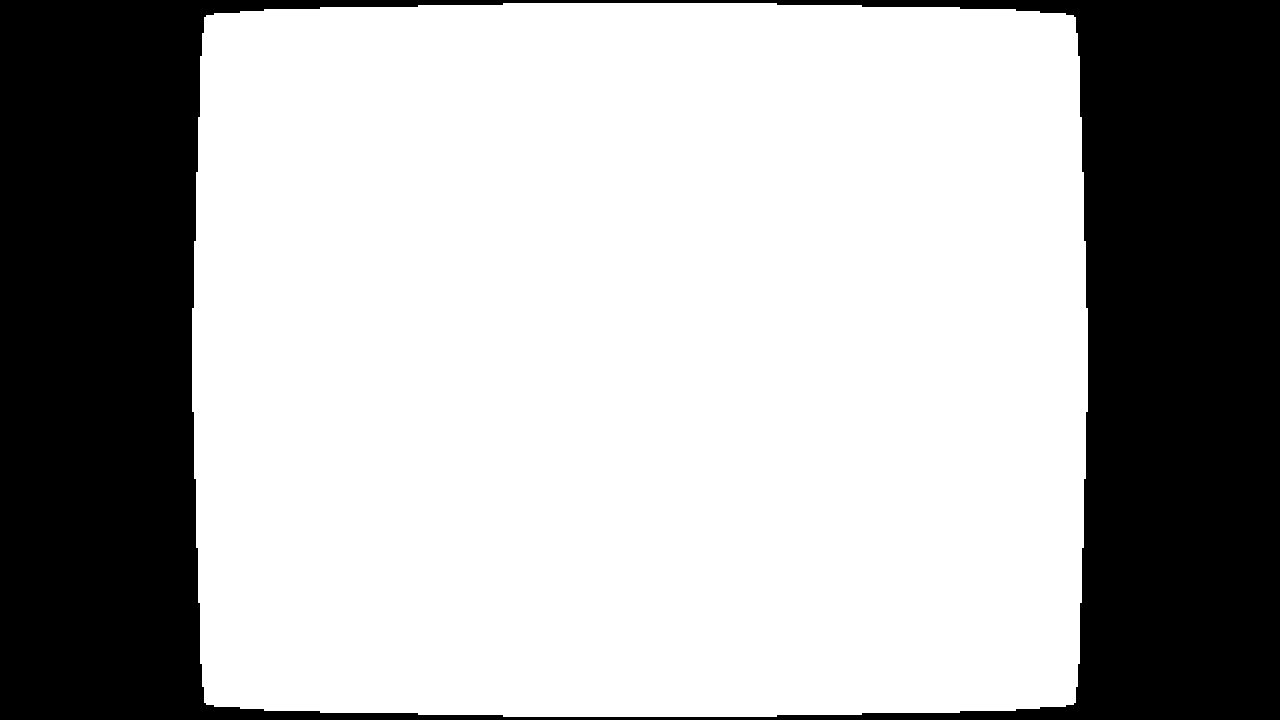
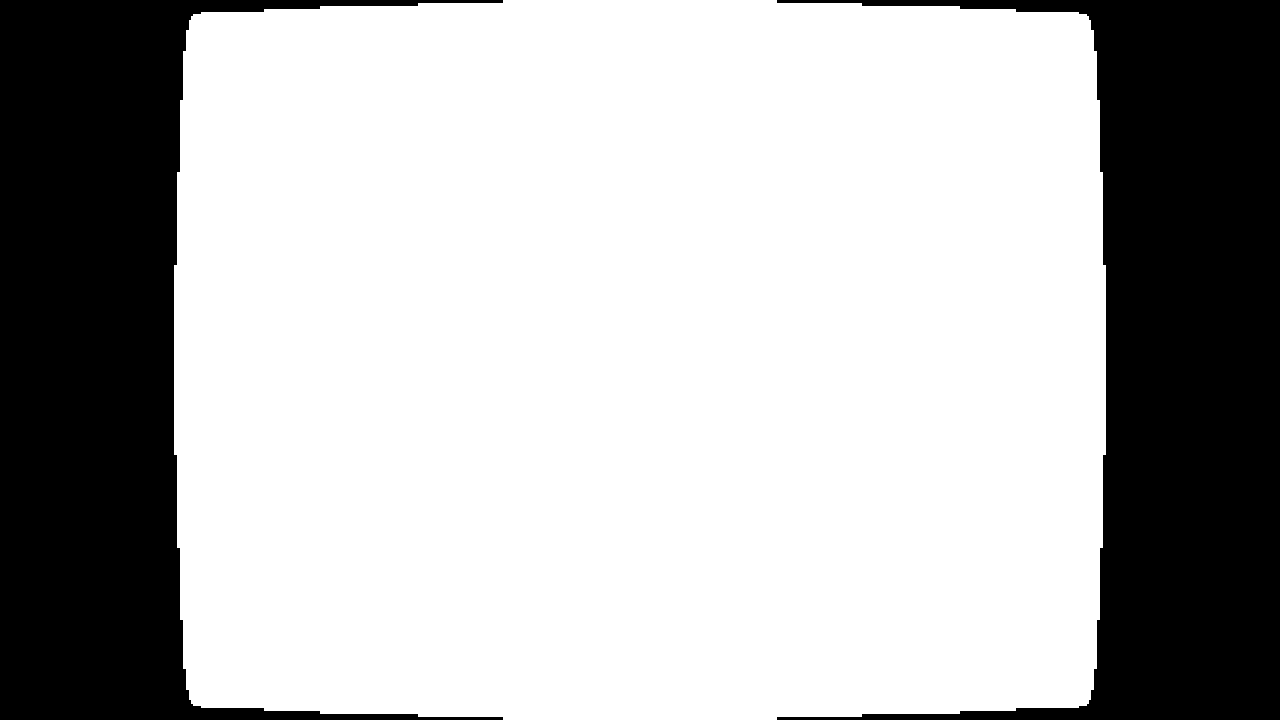
Day 5: Tambah cursor + assets sprite

diff --git a/static/views/trash.html b/static/views/trash.html
@@ -8,14 +8,17 @@
     <title>Document</title>
 </head>
 <body>
-    <div id="container1" class="container1 position-relative">
+    <div id="container1" class="position-relative">
+        <img id="frameimg" src="/static/public/Frame.png" alt="">
+        <img id="garisimg" src="/static/public/Garis.png" alt="">
         <div id="container2">
-            <div id="cursor"></div>
+            <div id="cursor"><img src="/static/public/Cursor.png" alt=""></div>
             <div id="grid-container">
-                <div id="1" class="grid-item"><button id="1" class="follow-element">1</button></div>
-                <div id="2" class="grid-item"><button id="2" class="follow-element">2</button></div>
-                <div id="3" class="grid-item"><button id="3" class="follow-element">3</button></div>
-                <div id="4" class="grid-item"><button id="4" class="follow-element">4</button></div>
+                <img id="innerimg" src="/static/public/Inner.png" alt="">
+                <div id="1" class="grid-item"><div id="btn1" class="follow-element"><img class="mail" src="/static/public/Mail.png" alt=""></div></div>
+                <div id="2" class="grid-item"><div id="btn2" class="follow-element"><img class="mail" src="/static/public/Mail.png" alt=""></div></div>
+                <div id="3" class="grid-item"><div id="btn3" class="follow-element"><img class="mail" src="/static/public/Mail.png" alt=""></div></div>
+                <div id="4" class="grid-item"><div id="btn4" class="follow-element"><img class="mail" src="/static/public/Mail.png" alt=""></div></div>
                 <div id="5" class="grid-item"></div>
                 <div id="6" class="grid-item"></div>
                 <div id="7" class="grid-item"></div>
@@ -86,6 +89,7 @@
                 <div id="72" class="grid-item"></div>
             </div>
             <div id="taskbar">
+                asdas
             </div>
         </div>
     <script>
@@ -151,8 +155,6 @@ followItems.forEach(function(item) {
 
         item.style.pointerEvents = "none"
         item.style.position = "absolute"
-        item.style.zIndex = "1"
-        document.body.style.cursor = "none"
 
         gridContainer.appendChild(item)
     })
@@ -170,13 +172,13 @@ gridTiles.forEach(function(tile) {
     tile.addEventListener("mouseup", function(event) {
         followItems.forEach(function(item) {
             if (item.dataset.active === "true") {
-                if (tile.id == 12 || tile.id == 72) {
-                    item.remove()
-                }
                 if (tile.childElementCount != 0) {
                     document.getElementById(childParent).appendChild(item);
                 } else {
                     tile.appendChild(item)
+                }
+                if (tile.id == 12 || tile.id == 72) {
+                    item.remove();
                 }
             }
 
@@ -185,7 +187,6 @@ gridTiles.forEach(function(tile) {
             item.style.position = "static"
             item.style.height = "100%px"
             item.style.width = "100%px"
-            document.body.style.cursor = "auto"
         });
     });
 });

diff --git a/static/style/styletest.css b/static/style/styletest.css
@@ -1,18 +1,36 @@
 body {
     margin: 0;
     padding: 0;
+    -webkit-touch-callout: none;
+    -webkit-user-select: none;
+    -khtml-user-select: none;
+    -moz-user-select: none;
+    -ms-user-select: none;
+    user-select: none;
+    cursor: none;
 }
 
 .grid-item {
-    border: 1px solid;
-    background-color: rgba(255, 255, 255, 0.8);
+    border: none;
+    background-color: rgb(78, 157, 126);
     display: flex;
     justify-content: center;
+    position: relative;
 }
 
 .follow-element {
     width: 100%;
     height: 100%;
+    z-index: 100;
+}
+
+.mail {
+    width: 90%;
+    position: absolute;
+    pointer-events: none;
+    top: 50%;
+    left: 50%;
+    transform: translate(-50%, -50%);
 }
 
 #container1 {
@@ -32,12 +50,7 @@ body {
     background-color: rgb(0, 0, 0);
     border: none;
     height: 100%;
-    width: 80vw;
-}
-
-#taskbar {
-    height: 10%;
-    background-color: blue;
+    width: 73vw;
 }
 
 #grid-container {
@@ -45,7 +58,13 @@ body {
     grid-template-columns: 8.333333333333333% 8.333333333333333% 8.333333333333333% 8.333333333333333% 8.333333333333333% 8.333333333333333% 8.333333333333333% 8.333333333333333% 8.333333333333333% 8.333333333333333% 8.333333333333333% 8.333333333333333%;
     grid-template-rows: 16.66666666666667% 16.66666666666667% 16.66666666666667% 16.66666666666667% 16.66666666666667% 16.66666666666667%;
     background-color: rgba(255, 255, 255, 0);
-    height: 90%;
+    height: 92%;
+}
+
+#taskbar {
+    height: 8%;
+    background-color: blue;
+    z-index: 100;
 }
 
 #wrap-column {
@@ -54,11 +73,31 @@ body {
     background-color: rgb(62, 85, 72);
 }
 
+#frameimg {
+    width: 100%;
+    height: 100%;
+    z-index: 999;
+    position: absolute;
+    pointer-events: none;
+}
+
+#garisimg {
+    width: 100%;
+    height: 100%;
+    z-index: 998;
+    position: absolute;
+    pointer-events: none;
+}
+
+#innerimg {
+    width: 100%;
+    height: 92%;
+    z-index: 99;
+    position: absolute;
+    pointer-events: none;
+}
+
 #cursor {
-    width: 10px;
-    height: 10px;
-    background-color: black;
-    border-radius: 50%;
     position: absolute;
     z-index: 9999;
     pointer-events: none;

diff --git a/static/views/image.html b/static/views/image.html
@@ -15,7 +15,7 @@
         height: 100vh;
     }
 
-    .parent img {
+    .parent #image {
         width: 100%;
         height: 100%;
         position: absolute;
@@ -25,7 +25,7 @@
 </head>
 <body>
     <div class="parent">
-        <img src="/static/public/Frame.png" alt="Image">
+        <img id="image" src="/static/public/Frames.png" alt="Image">
         <!-- <img src="/static/public/Frame.png" alt="Image"> -->
     </div>
 </body>
